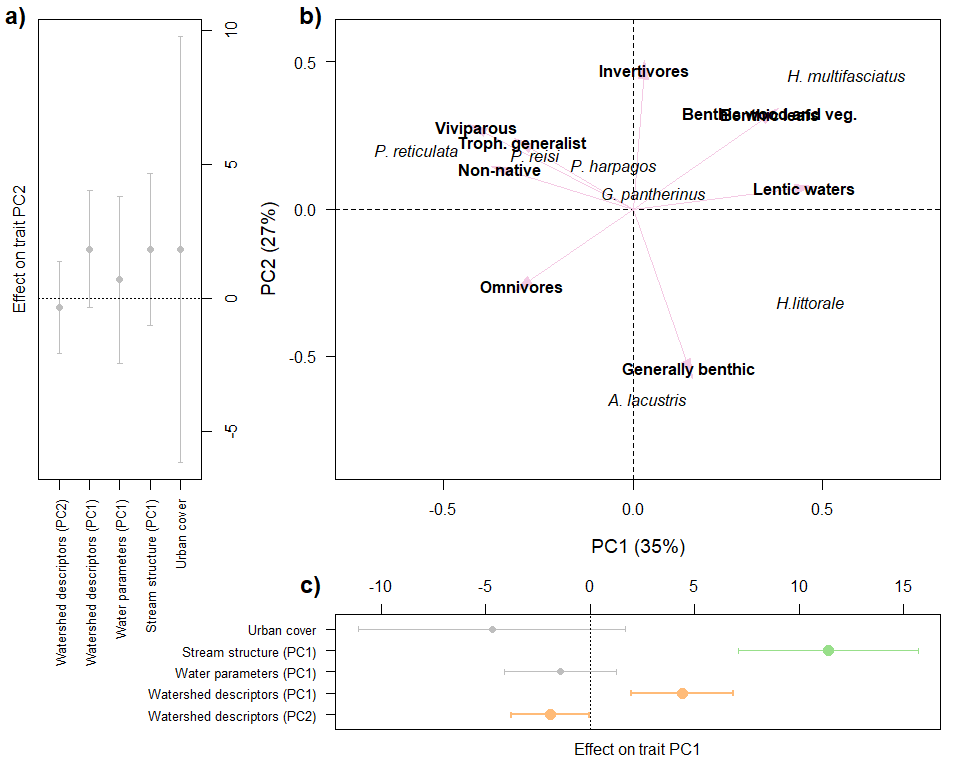
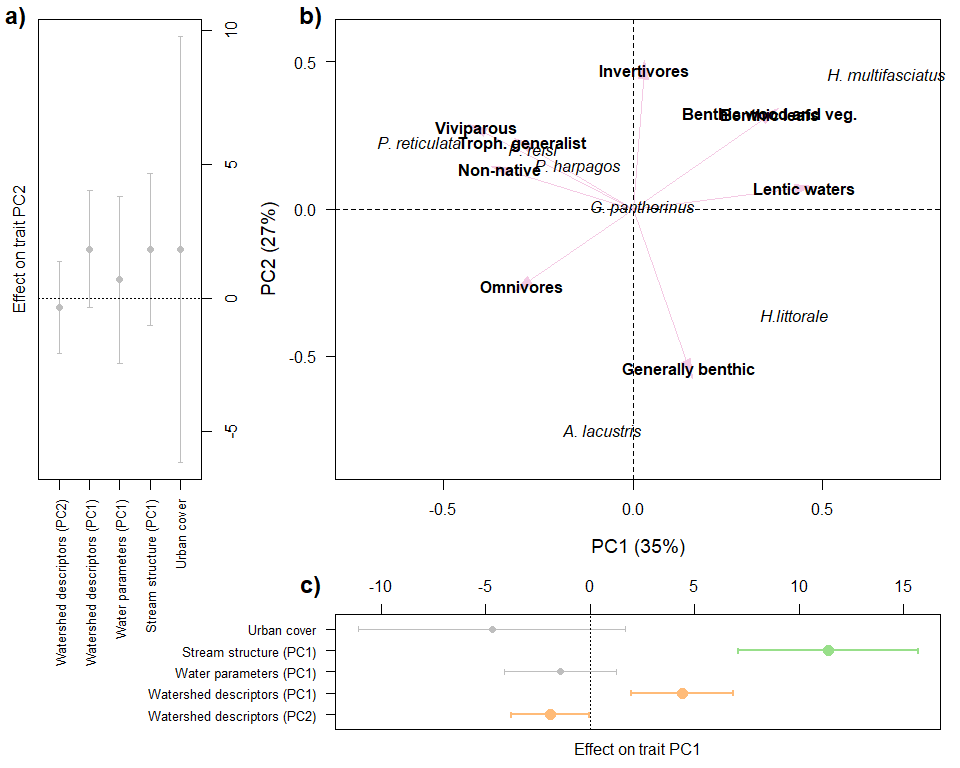
Updating Trait glm

diff --git a/Markdowns/Traitglm.md b/Markdowns/Traitglm.md
@@ -1,7 +1,7 @@
 Traitglm_ONE
 ================
 Rodolfo Pelinson
-2026-01-06
+2026-01-09
 
 ``` r
 dir<-("C:/Users/rodol/OneDrive/repos/Urban_fish_assemblages")
@@ -541,15 +541,15 @@ anova_urb_trait_morph <- anova(Model_trait_urb_trait_null, Model_trait_urb_trait
     ## Resampling begins for test 1.
     ##  Resampling run 0 finished. Time elapsed: 0.00 minutes...
     ##  Resampling run 100 finished. Time elapsed: 0.05 minutes...
-    ##  Resampling run 200 finished. Time elapsed: 0.11 minutes...
-    ##  Resampling run 300 finished. Time elapsed: 0.19 minutes...
-    ##  Resampling run 400 finished. Time elapsed: 0.27 minutes...
-    ##  Resampling run 500 finished. Time elapsed: 0.34 minutes...
-    ##  Resampling run 600 finished. Time elapsed: 0.39 minutes...
-    ##  Resampling run 700 finished. Time elapsed: 0.45 minutes...
-    ##  Resampling run 800 finished. Time elapsed: 0.50 minutes...
-    ##  Resampling run 900 finished. Time elapsed: 0.56 minutes...
-    ## Time elapsed: 0 hr 0 min 37 sec
+    ##  Resampling run 200 finished. Time elapsed: 0.10 minutes...
+    ##  Resampling run 300 finished. Time elapsed: 0.15 minutes...
+    ##  Resampling run 400 finished. Time elapsed: 0.20 minutes...
+    ##  Resampling run 500 finished. Time elapsed: 0.25 minutes...
+    ##  Resampling run 600 finished. Time elapsed: 0.31 minutes...
+    ##  Resampling run 700 finished. Time elapsed: 0.35 minutes...
+    ##  Resampling run 800 finished. Time elapsed: 0.41 minutes...
+    ##  Resampling run 900 finished. Time elapsed: 0.46 minutes...
+    ## Time elapsed: 0 hr 0 min 30 sec
 
 ``` r
 anova_urb_trait_morph
@@ -563,7 +563,7 @@ anova_urb_trait_morph
     ## Multivariate test:
     ##         Res.Df Df.diff   Dev Pr(>Dev)
     ## Model 1    201                       
-    ## Model 2    199       2 1.201    0.528
+    ## Model 2    199       2 1.201    0.523
     ## Arguments: P-value calculated using 999 iterations via PIT-trap block resampling.
 
 ``` r
@@ -577,16 +577,16 @@ anova_est_trait_morph <- anova(Model_trait_est_trait_null, Model_trait_est_trait
 
     ## Resampling begins for test 1.
     ##  Resampling run 0 finished. Time elapsed: 0.00 minutes...
-    ##  Resampling run 100 finished. Time elapsed: 0.09 minutes...
-    ##  Resampling run 200 finished. Time elapsed: 0.18 minutes...
-    ##  Resampling run 300 finished. Time elapsed: 0.27 minutes...
-    ##  Resampling run 400 finished. Time elapsed: 0.34 minutes...
-    ##  Resampling run 500 finished. Time elapsed: 0.42 minutes...
-    ##  Resampling run 600 finished. Time elapsed: 0.51 minutes...
-    ##  Resampling run 700 finished. Time elapsed: 0.59 minutes...
-    ##  Resampling run 800 finished. Time elapsed: 0.67 minutes...
-    ##  Resampling run 900 finished. Time elapsed: 0.75 minutes...
-    ## Time elapsed: 0 hr 0 min 49 sec
+    ##  Resampling run 100 finished. Time elapsed: 0.08 minutes...
+    ##  Resampling run 200 finished. Time elapsed: 0.15 minutes...
+    ##  Resampling run 300 finished. Time elapsed: 0.21 minutes...
+    ##  Resampling run 400 finished. Time elapsed: 0.28 minutes...
+    ##  Resampling run 500 finished. Time elapsed: 0.36 minutes...
+    ##  Resampling run 600 finished. Time elapsed: 0.44 minutes...
+    ##  Resampling run 700 finished. Time elapsed: 0.51 minutes...
+    ##  Resampling run 800 finished. Time elapsed: 0.59 minutes...
+    ##  Resampling run 900 finished. Time elapsed: 0.67 minutes...
+    ## Time elapsed: 0 hr 0 min 43 sec
 
 ``` r
 anova_est_trait_morph
@@ -600,7 +600,7 @@ anova_est_trait_morph
     ## Multivariate test:
     ##         Res.Df Df.diff Dev Pr(>Dev)
     ## Model 1    199                     
-    ## Model 2    199       0   0    0.854
+    ## Model 2    199       0   0    0.853
     ## Arguments: P-value calculated using 999 iterations via PIT-trap block resampling.
 
 ``` r
@@ -615,15 +615,15 @@ anova_agua_trait_morph <- anova(Model_trait_agua_trait_null, Model_trait_agua_tr
     ## Resampling begins for test 1.
     ##  Resampling run 0 finished. Time elapsed: 0.00 minutes...
     ##  Resampling run 100 finished. Time elapsed: 0.05 minutes...
-    ##  Resampling run 200 finished. Time elapsed: 0.10 minutes...
-    ##  Resampling run 300 finished. Time elapsed: 0.14 minutes...
-    ##  Resampling run 400 finished. Time elapsed: 0.18 minutes...
-    ##  Resampling run 500 finished. Time elapsed: 0.23 minutes...
-    ##  Resampling run 600 finished. Time elapsed: 0.28 minutes...
-    ##  Resampling run 700 finished. Time elapsed: 0.32 minutes...
-    ##  Resampling run 800 finished. Time elapsed: 0.36 minutes...
-    ##  Resampling run 900 finished. Time elapsed: 0.41 minutes...
-    ## Time elapsed: 0 hr 0 min 27 sec
+    ##  Resampling run 200 finished. Time elapsed: 0.08 minutes...
+    ##  Resampling run 300 finished. Time elapsed: 0.13 minutes...
+    ##  Resampling run 400 finished. Time elapsed: 0.16 minutes...
+    ##  Resampling run 500 finished. Time elapsed: 0.21 minutes...
+    ##  Resampling run 600 finished. Time elapsed: 0.24 minutes...
+    ##  Resampling run 700 finished. Time elapsed: 0.28 minutes...
+    ##  Resampling run 800 finished. Time elapsed: 0.32 minutes...
+    ##  Resampling run 900 finished. Time elapsed: 0.37 minutes...
+    ## Time elapsed: 0 hr 0 min 24 sec
 
 ``` r
 anova_agua_trait_morph
@@ -637,7 +637,7 @@ anova_agua_trait_morph
     ## Multivariate test:
     ##         Res.Df Df.diff   Dev Pr(>Dev)
     ## Model 1    201                       
-    ## Model 2    199       2 2.634    0.336
+    ## Model 2    199       2 2.634    0.328
     ## Arguments: P-value calculated using 999 iterations via PIT-trap block resampling.
 
 ``` r
@@ -656,16 +656,16 @@ anova_bacia_trait_morph_PC1 <- anova(Model_trait_bacia_trait_PC2, Model_trait_ba
 
     ## Resampling begins for test 1.
     ##  Resampling run 0 finished. Time elapsed: 0.00 minutes...
-    ##  Resampling run 100 finished. Time elapsed: 0.13 minutes...
-    ##  Resampling run 200 finished. Time elapsed: 0.27 minutes...
-    ##  Resampling run 300 finished. Time elapsed: 0.41 minutes...
-    ##  Resampling run 400 finished. Time elapsed: 0.54 minutes...
-    ##  Resampling run 500 finished. Time elapsed: 0.66 minutes...
-    ##  Resampling run 600 finished. Time elapsed: 0.79 minutes...
-    ##  Resampling run 700 finished. Time elapsed: 0.91 minutes...
-    ##  Resampling run 800 finished. Time elapsed: 1.04 minutes...
-    ##  Resampling run 900 finished. Time elapsed: 1.17 minutes...
-    ## Time elapsed: 0 hr 1 min 17 sec
+    ##  Resampling run 100 finished. Time elapsed: 0.11 minutes...
+    ##  Resampling run 200 finished. Time elapsed: 0.23 minutes...
+    ##  Resampling run 300 finished. Time elapsed: 0.33 minutes...
+    ##  Resampling run 400 finished. Time elapsed: 0.45 minutes...
+    ##  Resampling run 500 finished. Time elapsed: 0.56 minutes...
+    ##  Resampling run 600 finished. Time elapsed: 0.65 minutes...
+    ##  Resampling run 700 finished. Time elapsed: 0.76 minutes...
+    ##  Resampling run 800 finished. Time elapsed: 0.87 minutes...
+    ##  Resampling run 900 finished. Time elapsed: 0.99 minutes...
+    ## Time elapsed: 0 hr 1 min 5 sec
 
 ``` r
 anova_bacia_trait_morph_PC1
@@ -679,7 +679,7 @@ anova_bacia_trait_morph_PC1
     ## Multivariate test:
     ##         Res.Df Df.diff   Dev Pr(>Dev)
     ## Model 1    197                       
-    ## Model 2    195       2 2.604    0.363
+    ## Model 2    195       2 2.604     0.38
     ## Arguments: P-value calculated using 999 iterations via PIT-trap block resampling.
 
 ``` r
@@ -688,16 +688,16 @@ anova_bacia_trait_morph_PC2 <- anova(Model_trait_bacia_trait_PC1, Model_trait_ba
 
     ## Resampling begins for test 1.
     ##  Resampling run 0 finished. Time elapsed: 0.00 minutes...
-    ##  Resampling run 100 finished. Time elapsed: 0.12 minutes...
-    ##  Resampling run 200 finished. Time elapsed: 0.24 minutes...
-    ##  Resampling run 300 finished. Time elapsed: 0.37 minutes...
-    ##  Resampling run 400 finished. Time elapsed: 0.50 minutes...
-    ##  Resampling run 500 finished. Time elapsed: 0.62 minutes...
-    ##  Resampling run 600 finished. Time elapsed: 0.73 minutes...
-    ##  Resampling run 700 finished. Time elapsed: 0.86 minutes...
-    ##  Resampling run 800 finished. Time elapsed: 0.98 minutes...
-    ##  Resampling run 900 finished. Time elapsed: 1.10 minutes...
-    ## Time elapsed: 0 hr 1 min 12 sec
+    ##  Resampling run 100 finished. Time elapsed: 0.10 minutes...
+    ##  Resampling run 200 finished. Time elapsed: 0.21 minutes...
+    ##  Resampling run 300 finished. Time elapsed: 0.32 minutes...
+    ##  Resampling run 400 finished. Time elapsed: 0.43 minutes...
+    ##  Resampling run 500 finished. Time elapsed: 0.53 minutes...
+    ##  Resampling run 600 finished. Time elapsed: 0.65 minutes...
+    ##  Resampling run 700 finished. Time elapsed: 0.75 minutes...
+    ##  Resampling run 800 finished. Time elapsed: 0.85 minutes...
+    ##  Resampling run 900 finished. Time elapsed: 0.96 minutes...
+    ## Time elapsed: 0 hr 1 min 3 sec
 
 ``` r
 anova_bacia_trait_morph_PC2
@@ -711,7 +711,7 @@ anova_bacia_trait_morph_PC2
     ## Multivariate test:
     ##         Res.Df Df.diff   Dev Pr(>Dev)
     ## Model 1    197                       
-    ## Model 2    195       2 1.139    0.592
+    ## Model 2    195       2 1.139    0.579
     ## Arguments: P-value calculated using 999 iterations via PIT-trap block resampling.
 
 ``` r
@@ -959,16 +959,16 @@ anova_urb_trait_non_morph <- anova(Model_trait_urb_trait_null, Model_trait_urb_t
 
     ## Resampling begins for test 1.
     ##  Resampling run 0 finished. Time elapsed: 0.00 minutes...
-    ##  Resampling run 100 finished. Time elapsed: 0.05 minutes...
-    ##  Resampling run 200 finished. Time elapsed: 0.10 minutes...
-    ##  Resampling run 300 finished. Time elapsed: 0.15 minutes...
-    ##  Resampling run 400 finished. Time elapsed: 0.20 minutes...
-    ##  Resampling run 500 finished. Time elapsed: 0.24 minutes...
-    ##  Resampling run 600 finished. Time elapsed: 0.30 minutes...
-    ##  Resampling run 700 finished. Time elapsed: 0.36 minutes...
-    ##  Resampling run 800 finished. Time elapsed: 0.40 minutes...
-    ##  Resampling run 900 finished. Time elapsed: 0.45 minutes...
-    ## Time elapsed: 0 hr 0 min 29 sec
+    ##  Resampling run 100 finished. Time elapsed: 0.04 minutes...
+    ##  Resampling run 200 finished. Time elapsed: 0.07 minutes...
+    ##  Resampling run 300 finished. Time elapsed: 0.11 minutes...
+    ##  Resampling run 400 finished. Time elapsed: 0.15 minutes...
+    ##  Resampling run 500 finished. Time elapsed: 0.19 minutes...
+    ##  Resampling run 600 finished. Time elapsed: 0.23 minutes...
+    ##  Resampling run 700 finished. Time elapsed: 0.27 minutes...
+    ##  Resampling run 800 finished. Time elapsed: 0.31 minutes...
+    ##  Resampling run 900 finished. Time elapsed: 0.35 minutes...
+    ## Time elapsed: 0 hr 0 min 23 sec
 
 ``` r
 anova_urb_trait_non_morph
@@ -996,16 +996,16 @@ anova_est_trait_non_morph <- anova(Model_trait_est_trait_null, Model_trait_est_t
 
     ## Resampling begins for test 1.
     ##  Resampling run 0 finished. Time elapsed: 0.00 minutes...
-    ##  Resampling run 100 finished. Time elapsed: 0.07 minutes...
-    ##  Resampling run 200 finished. Time elapsed: 0.13 minutes...
-    ##  Resampling run 300 finished. Time elapsed: 0.20 minutes...
-    ##  Resampling run 400 finished. Time elapsed: 0.26 minutes...
-    ##  Resampling run 500 finished. Time elapsed: 0.31 minutes...
-    ##  Resampling run 600 finished. Time elapsed: 0.36 minutes...
-    ##  Resampling run 700 finished. Time elapsed: 0.41 minutes...
-    ##  Resampling run 800 finished. Time elapsed: 0.46 minutes...
-    ##  Resampling run 900 finished. Time elapsed: 0.51 minutes...
-    ## Time elapsed: 0 hr 0 min 34 sec
+    ##  Resampling run 100 finished. Time elapsed: 0.04 minutes...
+    ##  Resampling run 200 finished. Time elapsed: 0.10 minutes...
+    ##  Resampling run 300 finished. Time elapsed: 0.16 minutes...
+    ##  Resampling run 400 finished. Time elapsed: 0.21 minutes...
+    ##  Resampling run 500 finished. Time elapsed: 0.26 minutes...
+    ##  Resampling run 600 finished. Time elapsed: 0.31 minutes...
+    ##  Resampling run 700 finished. Time elapsed: 0.36 minutes...
+    ##  Resampling run 800 finished. Time elapsed: 0.41 minutes...
+    ##  Resampling run 900 finished. Time elapsed: 0.46 minutes...
+    ## Time elapsed: 0 hr 0 min 30 sec
 
 ``` r
 anova_est_trait_non_morph
@@ -1019,7 +1019,7 @@ anova_est_trait_non_morph
     ## Multivariate test:
     ##         Res.Df Df.diff  Dev Pr(>Dev)
     ## Model 1    201                      
-    ## Model 2    199       2 11.9    0.101
+    ## Model 2    199       2 11.9    0.102
     ## Arguments: P-value calculated using 999 iterations via PIT-trap block resampling.
 
 ``` r
@@ -1033,16 +1033,16 @@ anova_agua_trait_non_morph <- anova(Model_trait_agua_trait_null, Model_trait_agu
 
     ## Resampling begins for test 1.
     ##  Resampling run 0 finished. Time elapsed: 0.00 minutes...
-    ##  Resampling run 100 finished. Time elapsed: 0.05 minutes...
-    ##  Resampling run 200 finished. Time elapsed: 0.09 minutes...
-    ##  Resampling run 300 finished. Time elapsed: 0.14 minutes...
-    ##  Resampling run 400 finished. Time elapsed: 0.18 minutes...
-    ##  Resampling run 500 finished. Time elapsed: 0.23 minutes...
-    ##  Resampling run 600 finished. Time elapsed: 0.27 minutes...
-    ##  Resampling run 700 finished. Time elapsed: 0.31 minutes...
-    ##  Resampling run 800 finished. Time elapsed: 0.36 minutes...
-    ##  Resampling run 900 finished. Time elapsed: 0.40 minutes...
-    ## Time elapsed: 0 hr 0 min 26 sec
+    ##  Resampling run 100 finished. Time elapsed: 0.04 minutes...
+    ##  Resampling run 200 finished. Time elapsed: 0.07 minutes...
+    ##  Resampling run 300 finished. Time elapsed: 0.11 minutes...
+    ##  Resampling run 400 finished. Time elapsed: 0.15 minutes...
+    ##  Resampling run 500 finished. Time elapsed: 0.19 minutes...
+    ##  Resampling run 600 finished. Time elapsed: 0.22 minutes...
+    ##  Resampling run 700 finished. Time elapsed: 0.26 minutes...
+    ##  Resampling run 800 finished. Time elapsed: 0.30 minutes...
+    ##  Resampling run 900 finished. Time elapsed: 0.33 minutes...
+    ## Time elapsed: 0 hr 0 min 22 sec
 
 ``` r
 anova_agua_trait_non_morph
@@ -1056,7 +1056,7 @@ anova_agua_trait_non_morph
     ## Multivariate test:
     ##         Res.Df Df.diff   Dev Pr(>Dev)
     ## Model 1    201                       
-    ## Model 2    199       2 0.317    0.858
+    ## Model 2    199       2 0.317    0.857
     ## Arguments: P-value calculated using 999 iterations via PIT-trap block resampling.
 
 ``` r
@@ -1076,16 +1076,16 @@ anova_bacia_trait_non_morph_PC1 <- anova(Model_trait_bacia_trait_PC2, Model_trai
 
     ## Resampling begins for test 1.
     ##  Resampling run 0 finished. Time elapsed: 0.00 minutes...
-    ##  Resampling run 100 finished. Time elapsed: 0.11 minutes...
-    ##  Resampling run 200 finished. Time elapsed: 0.23 minutes...
-    ##  Resampling run 300 finished. Time elapsed: 0.34 minutes...
-    ##  Resampling run 400 finished. Time elapsed: 0.45 minutes...
-    ##  Resampling run 500 finished. Time elapsed: 0.57 minutes...
-    ##  Resampling run 600 finished. Time elapsed: 0.70 minutes...
-    ##  Resampling run 700 finished. Time elapsed: 0.82 minutes...
-    ##  Resampling run 800 finished. Time elapsed: 0.93 minutes...
-    ##  Resampling run 900 finished. Time elapsed: 1.07 minutes...
-    ## Time elapsed: 0 hr 1 min 11 sec
+    ##  Resampling run 100 finished. Time elapsed: 0.10 minutes...
+    ##  Resampling run 200 finished. Time elapsed: 0.21 minutes...
+    ##  Resampling run 300 finished. Time elapsed: 0.32 minutes...
+    ##  Resampling run 400 finished. Time elapsed: 0.43 minutes...
+    ##  Resampling run 500 finished. Time elapsed: 0.55 minutes...
+    ##  Resampling run 600 finished. Time elapsed: 0.66 minutes...
+    ##  Resampling run 700 finished. Time elapsed: 0.77 minutes...
+    ##  Resampling run 800 finished. Time elapsed: 0.88 minutes...
+    ##  Resampling run 900 finished. Time elapsed: 0.99 minutes...
+    ## Time elapsed: 0 hr 1 min 5 sec
 
 ``` r
 anova_bacia_trait_non_morph_PC1
@@ -1099,7 +1099,7 @@ anova_bacia_trait_non_morph_PC1
     ## Multivariate test:
     ##         Res.Df Df.diff   Dev Pr(>Dev)
     ## Model 1    197                       
-    ## Model 2    195       2 5.212     0.23
+    ## Model 2    195       2 5.212    0.284
     ## Arguments: P-value calculated using 999 iterations via PIT-trap block resampling.
 
 ``` r
@@ -1108,16 +1108,16 @@ anova_bacia_trait_non_morph_PC2 <- anova(Model_trait_bacia_trait_PC1, Model_trai
 
     ## Resampling begins for test 1.
     ##  Resampling run 0 finished. Time elapsed: 0.00 minutes...
-    ##  Resampling run 100 finished. Time elapsed: 0.13 minutes...
-    ##  Resampling run 200 finished. Time elapsed: 0.26 minutes...
-    ##  Resampling run 300 finished. Time elapsed: 0.37 minutes...
-    ##  Resampling run 400 finished. Time elapsed: 0.50 minutes...
-    ##  Resampling run 500 finished. Time elapsed: 0.63 minutes...
-    ##  Resampling run 600 finished. Time elapsed: 0.74 minutes...
-    ##  Resampling run 700 finished. Time elapsed: 0.88 minutes...
-    ##  Resampling run 800 finished. Time elapsed: 1.00 minutes...
-    ##  Resampling run 900 finished. Time elapsed: 1.13 minutes...
-    ## Time elapsed: 0 hr 1 min 14 sec
+    ##  Resampling run 100 finished. Time elapsed: 0.11 minutes...
+    ##  Resampling run 200 finished. Time elapsed: 0.22 minutes...
+    ##  Resampling run 300 finished. Time elapsed: 0.32 minutes...
+    ##  Resampling run 400 finished. Time elapsed: 0.43 minutes...
+    ##  Resampling run 500 finished. Time elapsed: 0.54 minutes...
+    ##  Resampling run 600 finished. Time elapsed: 0.66 minutes...
+    ##  Resampling run 700 finished. Time elapsed: 0.77 minutes...
+    ##  Resampling run 800 finished. Time elapsed: 0.88 minutes...
+    ##  Resampling run 900 finished. Time elapsed: 1.00 minutes...
+    ## Time elapsed: 0 hr 1 min 6 sec
 
 ``` r
 anova_bacia_trait_non_morph_PC2
@@ -1131,7 +1131,7 @@ anova_bacia_trait_non_morph_PC2
     ## Multivariate test:
     ##         Res.Df Df.diff   Dev Pr(>Dev)
     ## Model 1    197                       
-    ## Model 2    195       2 1.361    0.614
+    ## Model 2    195       2 1.361    0.631
     ## Arguments: P-value calculated using 999 iterations via PIT-trap block resampling.
 
 ``` r
@@ -1173,6 +1173,8 @@ labels <- c("Urban cover", "Stream structure (PC1)",  "Water parameters (PC1)", 
 ```
 
 ``` r
+set.seed(1)
+
 #pdf("plots/non_morph_func_effects_quad.pdf", width = 9, height = 8, pointsize = 12)
 
 close.screen(all.screens = TRUE)
@@ -1210,9 +1212,9 @@ Arrows(x0 <- rep(0, nrow(non_morph_func_loadings_filtrados)),
        y1 <- non_morph_func_loadings_filtrados[,2], arr.type = "triangle", arr.length = 0.4, col = "#F4CAE4", lwd = 1.5)
 
 #points(non_morph_func_PCs[,1],non_morph_func_PCs[,2], col = "black", bg = "white", pch = 21, cex = 1.5)
-text(jitter(non_morph_func_PCs[,1], amount = 0.1),
-     jitter(non_morph_func_PCs[,2], amount = 0.1),
-     labels = sp_names, col =  "black", font = 3)
+text(jitter(non_morph_func_PCs[,1], amount = 0.05),
+     jitter(non_morph_func_PCs[,2], amount = 0.05),
+     labels = sp_names, col =  "black", font = 3, xpd = NA)
 
 
 text(x = non_morph_func_loadings_filtrados[,1], y = non_morph_func_loadings_filtrados[,2], labels = names_func, cex = 1, col = "black", font = 2)
